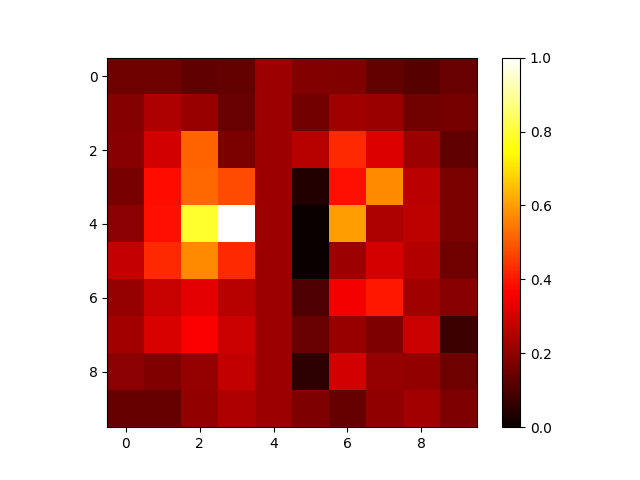
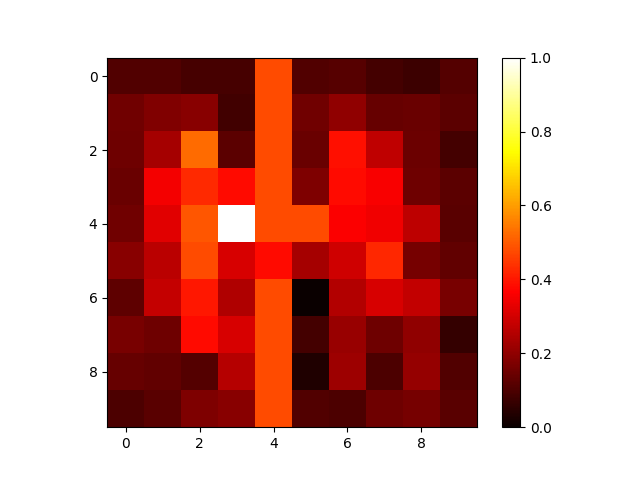
model: very simple

diff --git a/environments/gymnasium/envs/tag/tag_state.py b/environments/gymnasium/envs/tag/tag_state.py
@@ -28,8 +28,8 @@ class TagState:
         self.screen_height = screen_height
         self.state_type = state_type
         self.random_seeker_position = True
-        self.random_hider_position = True
-        self.random_box_position = True
+        self.random_hider_position = False
+        self.random_box_position = False
         self._init_states(filename)
         self._init_dimensions()
 

diff --git a/environments/gymnasium/envs/tag/tag.py b/environments/gymnasium/envs/tag/tag.py
@@ -47,7 +47,7 @@ class TagEnv(gym.Env):
         self.screen_width = 600
         self.screen_height = 600
         folder_name = "environments/gymnasium/data/tag/"
-        filename = "advanced-tag-0-10-10.txt"
+        filename = "clean-env-0-10-10.txt"
         self.state_type = StateType.FULL
         self.bootcamp = Bootcamp()
         self.tag_radius = 1

diff --git a/rl/src/dqn/dqn.py b/rl/src/dqn/dqn.py
@@ -46,7 +46,7 @@ class DQN(SingleAgentBase):
         gamma: float = 0.99,
         epsilon_start: float = 1.0,
         epsilon_end: float = 0.05,
-        epsilon_decay: int = 2000000,
+        epsilon_decay: int = 100000,
         slow_decay_point: float = 0.45,
         slow_decay_factor: float = 5,
         batch_size: int = 64,
